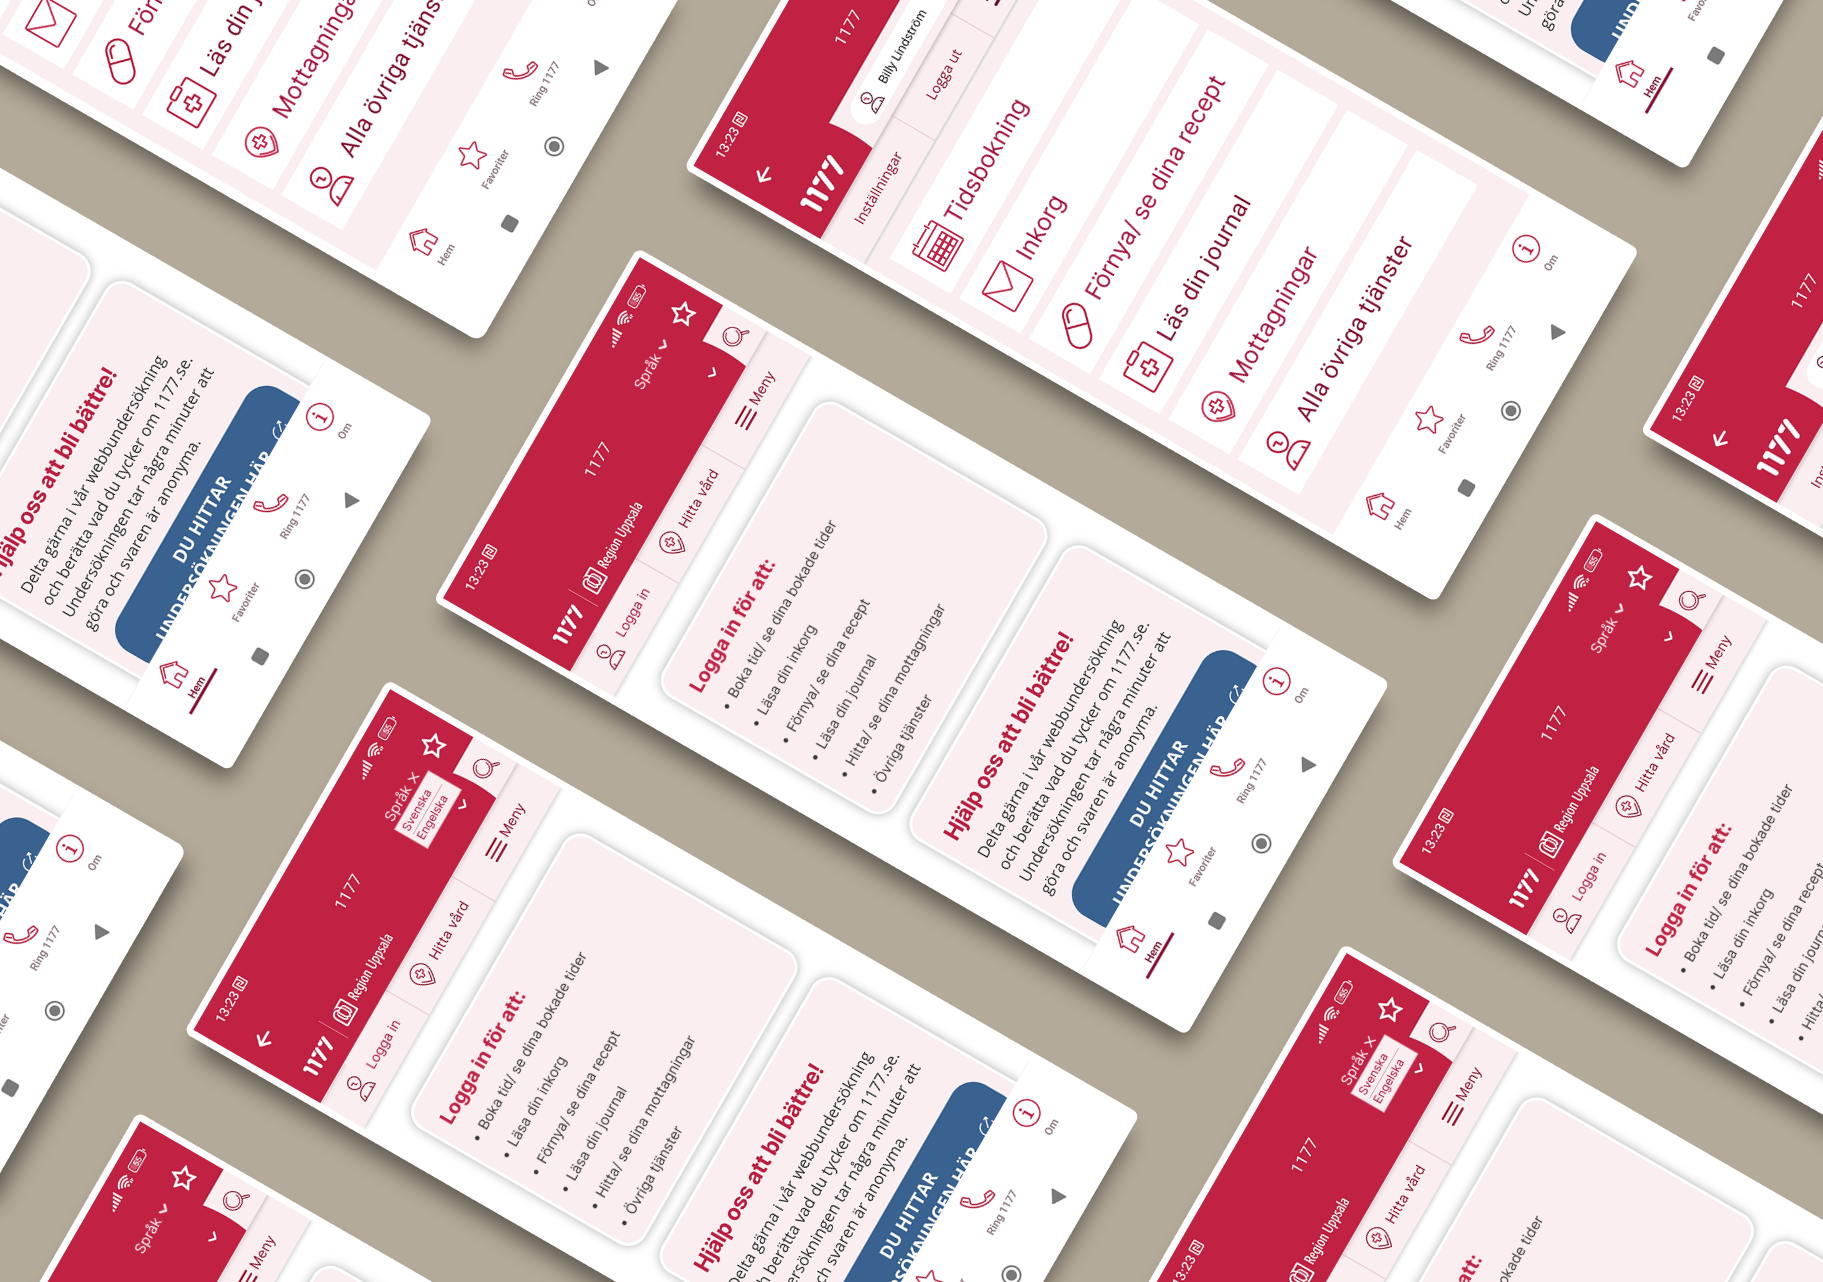
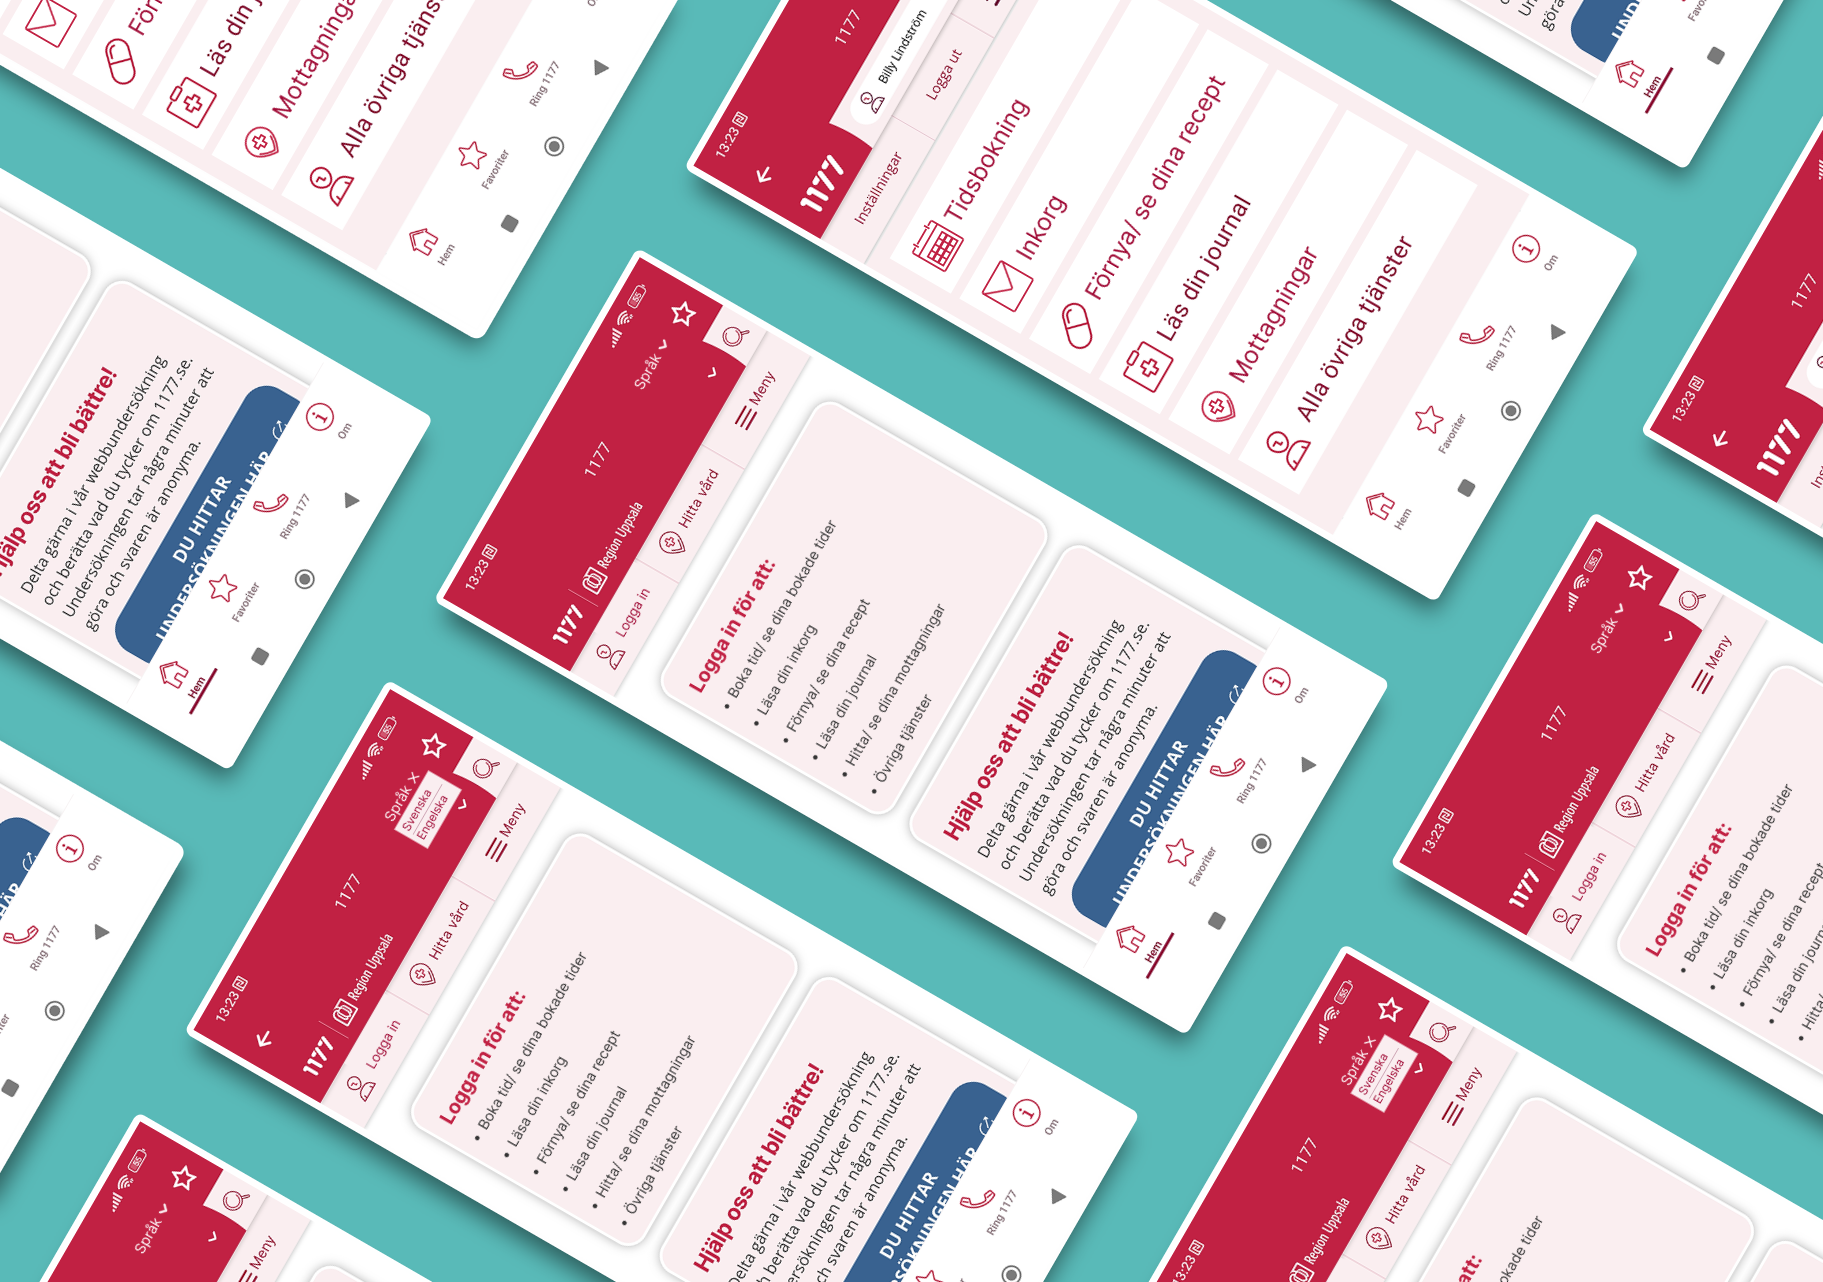
Added back blue color theme and minor heading fixes

Changed region(s): [[0.0, 0.0, 1.0, 1.0]]

diff --git a/Gallery.html b/Gallery.html
@@ -46,47 +46,47 @@
         <div class="gallery-grid">
           <section class="gallery-item">
             <img src="images/HMD1.png" alt="HMD Poster">
-            <h4>HMD Poster Series</h4>
-            <p>2025 Created to learn how to make a poster series at Högskolan Kristianstad</p>
+            <h3>HMD Poster Series</h4>
+              <p>2025 Created to learn how to make a poster series at Högskolan Kristianstad</p>
           </section>
           <section class="gallery-item">
             <img src="images/HMD2.png" alt="HMD Poster 2">
-            <h4>HMD Poster Series</h4>
-            <p>2025 Created to learn how to make a poster series at Högskolan Kristianstad</p>
+            <h3>HMD Poster Series</h4>
+              <p>2025 Created to learn how to make a poster series at Högskolan Kristianstad</p>
           </section>
           <section class="gallery-item">
             <img src="images/HMD3.png" alt="HMD Poster 3">
-            <h4>HMD Poster Series</h4>
+            <h3>HMD Poster Series</h3>
             <p>2025 Created to learn how to make a poster series at Högskolan Kristianstad</p>
           </section>
           <section class="gallery-item">
             <img src="images/Borgafjäll.png" alt="Borgafjäll Poster">
-            <h4>Borgafjäll Poster</h4>
+            <h3>Borgafjäll Poster</h3>
             <p>2025 Created after personal visit to Borgafjäll, Sweden</p>
           </section>
           <section class="gallery-item">
             <img src="images/MiniPrint-Poster.png" alt="MiniPrint Poster">
-            <h4>MiniPrint Poster</h4>
+            <h3>MiniPrint Poster</h3>
             <p>2025 Created for an art exhibition in Ingelstorp, Sweden</p>
           </section>
           <section class="gallery-item">
             <img src="images/Teneriffa.png" alt="Teneriffa Poster">
-            <h4>Teneriffa Poster</h4>
+            <h3>Teneriffa Poster</h3>
             <p>2024 Created to learn different typography in poster design at Högskolan Kristianstad</p>
           </section>
           <section class="gallery-item">
             <img src="images/Vänstra-Unionen.png" alt="Left Unionen Poster">
-            <h4>Left Union Poster</h4>
+            <h3>Left Union Poster</h3>
             <p>2024 Created to learn political poster design at Högskolan Kristianstad</p>
           </section>
           <section class="gallery-item">
             <img src="images/KnightRock.png" alt="Knight Rock Poster">
-            <h4>Knight Rock Poster</h4>
+            <h3>Knight Rock Poster</h3>
             <p>2024 Created to learn event poster design at Högskolan Kristianstad</p>
           </section>
           <section class="gallery-item">
             <img src="images/Handmåladediscar.png" alt="Handmade Discs Poster">
-            <h4>Handmade Discs Poster</h4>
+            <h3>Handmade Discs Poster</h3>
             <p>2024 Created to learn advertising poster design at Högskolan Kristianstad</p>
           </section>
         </div>

diff --git a/Main.css b/Main.css
@@ -4,9 +4,9 @@
 
 :root {
     /* Colors */
-    --bg: hsl(0, 0%, 5%);
-    --bg-light: hsl(0, 0%, 10%);
-    --bg-xtra-light: hsl(0, 0%, 15%);
+    --bg: hsl(211, 55%, 10%);
+    --bg-light: hsl(211, 55%, 15%);
+    --bg-xtra-light: hsl(211, 55%, 20%);
     --text: hsl(0, 0%, 95%);
     --text-muted: hsl(0, 0%, 70%);
     --border: hsl(0, 0%, 15%);
@@ -104,7 +104,7 @@ html {
 
 /* Styles main content area with background image */
 main {
-    background-image: url(images/background-image.png);
+    background-image: url(images/background-image-blue.png);
     background-position: center top;
     background-size: 100% auto;
     background-repeat: repeat-y;
@@ -137,9 +137,9 @@ h3 {
 
 /* Styles the fourth heading text - smaller, uses heading font */
 h4 {
-    font-family: var(--font-heading);
-    font-size: var(--font-size-lg);
-    color: var(--text);
+    font-family: var(--font-body);
+    font-size: var(--font-size-xl);
+    color: var(--text-muted);
 }
 
 /* Styles the body text */
@@ -574,6 +574,12 @@ footer {
     margin-top: 10px;
 }
 
+.intro h3,
+.Projects h3,
+.Gallery h3 {
+    margin-top: 20px;
+}
+
 /* ===================================
    PROJECTS PAGE
    =================================== */
@@ -630,18 +636,13 @@ footer {
 
 /* Adds gold color to project titles */
 .project-content h1 {
-    color: var(--color-accent-gold);
+
+    margin-bottom: 5px;
 }
 
 /* Adds margins headings */
 .project-content h3 {
     margin-bottom: 5px;
-    margin-top: 20px;
-}
-
-.intro h3,
-.Projects h3,
-.Gallery h3 {
     margin-top: 20px;
 }
 
@@ -707,9 +708,8 @@ footer {
 }
 
 /* Aligns and styles each gallery item title */
-.gallery-item h4 {
+.gallery-item h3 {
     margin: 8px 0 0 0;
-    color: var(--text);
     padding-left: 10px;
 }
 
@@ -895,7 +895,7 @@ footer {
 .clear-btn:hover {
     background-color: var(--bg-xtra-light);
     transform: scale(1.08);
-    box-shadow: 0 4px 12px rgba(150, 150, 150, 0.5);
+    box-shadow: 0 4px 12px rgba(70, 130, 180, 0.5);
 }
 
 /* Label styling for screen-reader only */
@@ -1416,7 +1416,7 @@ footer {
         padding: 15px;
     }
 
-    .gallery-item h4 {
+    .gallery-item h3 {
         font-size: var(--font-size-md);
     }
 
@@ -1445,7 +1445,7 @@ footer {
         padding: 10px;
     }
 
-    .gallery-item h4 {
+    .gallery-item h3 {
         font-size: var(--font-size-md);
     }
 

diff --git a/index.html b/index.html
@@ -40,7 +40,7 @@
       <div class="container">
         <!-- Hero section -->
         <div class="item1">
-          <img src="images/Main-title3.png" alt="Designer headline">
+          <img src="images/Hero-title-blue-black.png" alt="Designer headline">
         </div>
         <!-- Skills and Experiences sections -->
         <div class="item2">
